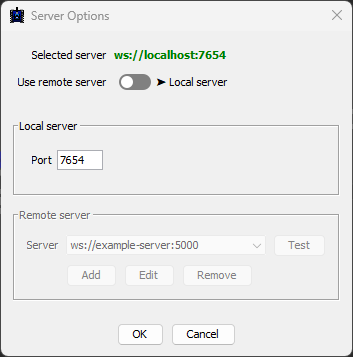
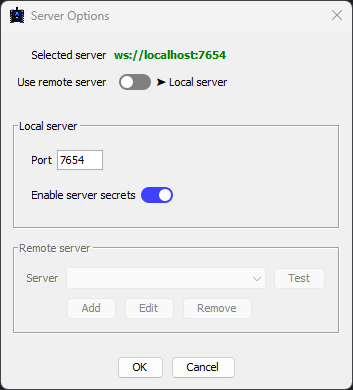
Document auto-recording and replay features in the GUI manual with updated images and details.

diff --git a/buildDocs/docs/articles/gui.md b/buildDocs/docs/articles/gui.md
@@ -2,179 +2,188 @@
 
 ## Introduction
 
-The **GUI** is a graphical user interface for Robocode Tank Royale that allows you to:
+The **GUI** is a graphical user interface for Robocode Tank Royale that provides essential functionality for:
 
-- Connect to a server running locally, or start up a new server that will run locally.
-- Startup battles with selected bots and define the rules to apply for the battle.
-- Boot up bots locally, or let remote bots join your battle.
-- View battles in the battle arena and control the visualization speed.
+- Managing server connections, including starting a local server or connecting to a remote one
+- Creating and configuring battles by selecting bots and defining game rules
+- Running bots locally or integrating with remote bots
+- Real-time battle visualization with speed control and monitoring capabilities
+- Recording and replaying battles for detailed analysis
 
 ## Start window
 
-When starting up the GUI, this window is the first thing you will see:
+When launching the GUI, you'll be greeted by the start window:
 
 ![Start window](../images/gui/start-window.png)
 
-Use the menu at the top, which contains some keyboard shortcuts for the main features. For example `Ctrl+B` for starting
-a new battle.
+The menu bar at the top provides convenient access to core features with keyboard shortcuts, such as `Ctrl+B` to start a
+new battle.
 
 ## Starting a battle
 
-The main feature of the GUI is starting a new battle and selecting the bots to participate in the battle.
+The primary function of the GUI is battle creation and bot selection:
 
 ![Start battle](../images/gui/start-battle.png)
 
-The window contains these four lists:
+The window is organized into four key lists:
 
-- Bot Directories (local)
-- Booted Bots (local)
-- Joined Bots (local/remote)
-- Selected Bots (battle participants)
+- Bot Directories (local) - Available bot types from configured directories
+- Booted Bots (local) - Currently bot instances running locally
+- Joined Bots (local/remote) - Bots connected to the server locally or remotely
+- Selected Bots (battle participants) - Bots chosen for the next battle
 
-Besides these lists, the window contains 'Select game type' at the top to select the [game type] for the battle.
-Note that you can adjust the rules for a specific game type by clicking the 'Setup Rules' button.
+At the top, you'll find the 'Select game type' dropdown to choose the [game type], along with a 'Setup Rules' button for
+customizing game parameters.
 
 ![Setup rules and game type](../images/gui/setup-rules-and-game-type.png)
 
-At the bottom of the window, the _bot info_ is displayed for the bot when selecting a bot within the 'Bot Directories'
-list:
+Next to the game type selection is the 'Recording' toggle for battle recording:
+
+![Auto-recording](../images/gui/auto-record.png)
+
+When enabled, battles are automatically recorded and saved to individual files in the `recordings` directory.
+
+The bottom panel displays detailed bot information when selecting entries from the 'Bot Directories' list:
 
 ![Bot Info](../images/gui/bot-info.png)
 
 ### Bot Directories
 
-The **Bot Directories** lists all the bots types found in the local (root) bot directories that you have added to
-the configuration. Each entry in the list contains the absolute file path to a bot type.
+The **Bot Directories** section lists all detected bot types from your configured local directories, showing absolute
+file paths to each bot.
 
 ![Bot Directories](../images/gui/bot-directories.png)
 
-When no bot directories have been set up already, a dialog will show up, telling you that you need to set up at least
-one bot directory root.
+If no directories are configured, you'll see a prompt to set up at least one bot directory root:
 
 ![No bot directory root](../images/gui/no-bot-directory-found.png)
 
-To begin with, you can download the zip files with the sample bots. Unzip those to some directory, which you then add to
-the configuration from the menu with the Config → Bot Root Directories:
+To get started, download and extract the sample bot packages, then add their directory through Config → Bot Root
+Directories:
 
 ![Bot Root Directories Config](../images/gui/bot-root-dir-config.png)
 
 ### Booted Bots
 
-The **Booted Bots** lists all bots that have been booted up from the GUI. The GUI has the [booter] built-in, which
-is used for booting up selected bots from the Bot Directories.
+The **Booted Bots** section shows bots launched through the GUI's built-in [booter]:
 
 ![Booted Bots](../images/gui/booted-bots.png)
 
-Note that it is possible to boot up multiple instances of
-the same bot type, so you can, for example, let 3 Corners bots battle each other.
+Multiple instances of the same bot type can be booted, enabling scenarios like multiple Corners bots battling each
+other.
 
-Each entry in the Booted Bots list contains the full file path for the bot type of the booted bot plus a process id
-(pid) within the parentheses after the file path.
-
-When pressing 'Boot', a boot process will start up running the individual bots selected from the Bot Directories. Note
-that the bots themselves are running in their own processes (and own pid) beside the boot process listed in the list of
-booted bots.
-
-When pressing 'Unboot' the boot process of the selected bot will be stopped, which is effectively stopping the bot as
-well.
+Each entry displays the bot's file path and process ID (pid). The 'Boot' button launches individual bot processes,
+while 'Unboot' terminates the selected bot's process.
 
 ### Joined Bots
 
-The **Joined Bots** lists all bots that have joined the server either locally or remotely, and hence are available for
-the battle. If you start a bot from the command line or within an IDE locally, it will also show up in the **Joined
-Bots** list.
+The **Joined Bots** section displays all bots connected to the server, whether local or remote, including those started
+via command line or IDE:
 
 ![Joined Bots](../images/gui/joined-bots.png)
 
-The IP address and port for the joined bot is written in the parentheses, which also makes it possible to differ between
-multiple instances of the same bot, e.g. if Corners have been booted multiple times.
+Each entry shows the bot's IP address and port, helping distinguish between multiple instances. File paths aren't shown
+since the server only tracks WebSocket connections and bot handshake information.
 
-Note that the file path of the bot is not available is the list of **Joined Bots**. The reason is that the server only
-listens for bots that join via the server´s WebSocket, and hence only knows the IP address and port, and the bot
-information provided via the _bot handshake_ sent by the bot itself.
-
-The booter (used by the GUI) does have this knowledge, _but only for bots that was started from the local file system_.
-Be aware that bots might not make use of the booter at all, but could be started some other way. E.g. you can write a
-Bot application running against the server's WebSocket with or without using the provided bot APIs, and just start it
-up from some process, or running within e.g. an application server locally or remotely.
+While the booter knows local bot file paths, bots can join through various means without using the booter, such as
+custom applications connecting via WebSocket.
 
 ### Selected Bots
 
-The **Selected Bots** lists the joined bots you are selecting to participate in the battle.
+The **Selected Bots** section lists your chosen bots for the upcoming battle:
 
 ![Selected Bots](../images/gui/selected-bots.png)
 
-Note that the 'Start Battle' button might be disabled if the number of selected bots for the battle does not meet the
-minimum requirements defined by the rules ([game type]), which is written in hover text for the 'Start Battle' button.
+The 'Start Battle' button activates once you meet the minimum participant requirements defined in the game
+rules ([game type]).
 
 ## Viewing the battle
 
-When the battle is started, the screen will shift to the battle view:
+When a battle begins, the view switches to the battle arena:
 
 ![Battle View](../images/gui/battle-view.png)
 
-The battle can be controlled using the control panel at the bottom:
+Use the control panel at the bottom to manage the battle:
 
 ![Control Panel](../images/gui/control-panel.png)
 
-With the control panel you can:
+Controls include:
 
-- pause/resume the battle
-- single-step a turn by clicking 'Next turn', while the game is paused
-- stop and restart the battle
-- set the TPS (Turns per second) with the slider, TPS field, or the default TPS button
+- Pause/Resume battle
+- Single-step through turns while paused
+- Stop/Restart battle
+- Adjust TPS (Turns per second) via slider, input field, or default button
 
 ### Viewing the bot console
 
-On the left side of the battle view you can see a side-panel containing buttons for each bot participating in the
-battle:
+The left side panel contains buttons for each participating bot:
 
 ![Side Panel](../images/gui/side-panel.png)
 
-When clicking on a 'bot button', the bot console window will open:
+Clicking a bot button opens its console window:
 
 ![Bot Console](../images/gui/bot-console.png)
 
-On the **Console** tab of the bot console writes out the standard output (stdout) and standard error (stderr) printed
-out from the bots standout
-output streams. Note that the standard output streams from the bot is being redirected by the Bot API when it is being
-booted from the [Booter].
+The **Console** tab shows stdout and stderr output from the bot. The [Booter] redirects these streams when launching
+bots.
 
-Data received from the bot is written out with a label in <font color=gray>gray</font> with the turn number, when the
-output was written out.
+Output includes:
 
-Messages sent to standard output (stdout) is written in <font color=white>white</font>, and messages sent to standard
-error (stderr) is written out in <font color=#FF5733>red</font>.
-
-Info messages from the game (GUI) is written out in <font color=#377B37>green</font>. Info messages is e.g. round
-number, when a new round has just started. But it could also be "events" written out with a starting left arrow (>)
-telling that the game has ended or was aborted.
+- <font color=gray>Gray</font> labels with turn numbers
+- <font color=white>White</font> standard output messages
+- <font color=#FF5733>Red</font> standard error messages
+- <font color=#377B37>Green</font> game info messages
 
 ### Viewing the bot properties
 
-The **Properties** tab of the bot console shows all the current bot properties for the current turn, which is useful
-to read the current states of the bot and useful debugging your bot.
+The **Properties** tab displays real-time bot state information for debugging:
 
 ![Bot Console](../images/gui/bot-properties.png)
 
 ### Viewing the bot events
 
-The **Events** tab of the bot console shows all events occurring for the bot, which used for, e.g., debugging your bot.
+The **Events** tab shows all bot events for debugging purposes:
 
 ![Bot Console](../images/gui/bot-events.png)
 
-Each event gets printed out on the turn (number) they were received by the GUI client. But your bot might receive it
-with a delay, depending on how busy the bot is due to CPU and RAM usage. But networking latency and threading issues
-could also play in (bots run over WebSockets).
+Events display their turn number, though bots may experience delays due to system load or network latency.
+
+## Recording
+
+The GUI features built-in battle recording capabilities:
+
+Enable auto-recording via the toggle in the New Battle dialog to automatically record each battle:
+
+![Recording](../images/gui/recording.png)
+
+Recordings save to separate files in the `recordings` directory, enabling detailed replay analysis of bot behavior.
+
+## Replaying
+
+Access recorded battles through Battle → Replay from File...:
+
+![Replay from File](../images/gui/replay-from-file.png)
+
+Select a recording file:
+
+![Select replay file](../images/gui/select-replay-file.png)
+
+Click Open to start playback:
+
+![Replaying](../images/gui/replay.png)
+
+The timeline shows battle progress and bot deaths (marked by skulls). Click anywhere on the timeline to jump to that
+turn.
+
+Replay controls match live battle controls for pause/resume, stepping, and stopping.
 
 ## Setup Rules
 
-Setup Rules makes it is possible to modify the rules for a specific [game type]:
+Customize rules for each [game type]:
 
 ![Setup Rules](../images/gui/setup-rules.png)
 
-Currently, these predefined game types exist: `classic`, `melee`, and `1v1`. But there is also a `custom` which you
-can use it for your own purpose to experiment with the settings as you please.
+Available game types include: `classic`, `melee`, `1v1`, and `custom` for experimentation.
 
 Rule settings:
 
@@ -190,53 +199,97 @@ Rule settings:
 
 ## Local Server Log
 
-When the GUI is used for starting a local server it is possible to view the server log from the menu. Note that viewing
-the log of a remote server is not supported.
+The GUI provides a built-in server log viewer when running a local server. This allows you to monitor server activity,
+debug connection issues, and track battle events in real-time. Note that log viewing is only available for local
+servers, not remote servers.
 
 ![Local Server Log](../images/gui/server-log.png)
 
 ## Server Options
 
-It is possible to configure and select which server to use when starting a battle. In the top of the Server Options
-dialog the URL of the current selected server is output.
+The Server Options dialog allows you to configure and select the server used for battles. At the top of the dialog, you
+can see the URL of the currently selected server.
 
 ### Local Server
 
-The default is to use a local server, which will automatically be started and running on localhost. It is possible to
-change the port number.
+By default, Robocode Tank Royale uses a local server that automatically starts on localhost. You can configure:
+
+- Port number for the server
+- Server authentication using secrets
+- Security settings to prevent unauthorized access
+
+When server secrets are enabled, all clients and bots must authenticate using the correct secret to join. Bots can
+provide the secret either through:
+
+- The Bot API
+- Environment variable `ROBOCODE_SERVER_SECRET`
 
 ![Local Server Options](../images/gui/server-options-local.png)
+
+#### Local Server Secrets
+
+The server secrets are located in the `server.properties` file, which is automatically created when starting the
+server or GUI for the first time. This file contains the authentication secrets required for bots and controllers to
+access the server.
+
+This is an example of a `server.properties` file containing the server secrets:
+
+```properties
+bots-secrets=/zWlsdEfhNX1YPggA9DJlw
+controller-secrets=Xcrw0ydtiscD7L7xAT/K4g
+...
+```
+
+You can change the server secrets by editing the `server.properties` file.
+
+The `bots-secrets` contains the secret for authenticating bots, while the `controller-secrets` contains the secret for
+authenticating GUI components and the battle recorder.
 
 ### Remote Server
 
 It is also possible to use a remote server. This server is expected to run externally, and hence will not be started
-automatically, when starting a battle. Also note that you need to specify the controller and bot secrets for the remote
-server. Otherwise, the GUI and bots will not be able to access the remote server.
+automatically when starting a battle. To connect to a remote server:
+
+1. Enter the server URL in WebSocket format (e.g. ws://hostname:port)
+2. Specify both the controller and bot secrets that are configured on the remote server
+3. Click Apply to save the settings
+
+Without the correct secrets configured, neither the GUI nor bots will be able to authenticate and connect to the remote
+server.
 
 ![Remote Server Options](../images/gui/server-options-remote.png)
 
 ## Debug Options
 
-The current **Debug Options** contains a single option for enabling _initial start position_ for a bot, meaning that if
-a
-bot has set the `initialPosition` field in the JSON config file or programmatically via the `BotInfo` class, then the
-bot will be allowed to use the specified starting position.
+The **Debug Options** dialog provides development and testing features. Currently it includes:
 
-Note that this is an exception to the rule, as bots are not normally allowed to set a starting position. But the
-exception here is for debugging purposes only.
+- **Initial Bot Position**: When enabled, allows bots to specify their starting position via either:
+    - The `initialPosition` field in their JSON config file
+    - Programmatically through the `BotInfo` class
+
+This option is intended for debugging purposes only, as bots are normally not permitted to choose their starting
+position.
 
 ## Sound Options
 
-The **Sound Options** let you enable and disable sounds, but also toggle the individual sound effect.
+The **Sound Options** dialog gives you complete control over the game audio:
+
+- Master sound toggle to enable/disable all audio
+- Individual toggles for each sound effect type
+- Volume controls for fine-tuning the audio experience
 
 ![Sound Options](../images/gui/sound-options.png)
 
 ## About box
 
-The about-box provides information about the version of the GUI and built in booter and server.
+The about-box provides important system information:
 
-In addition, the Java version and vendor is also provided, which is useful information when e.g. filing a
-new [new issue].
+- Robocode Tank Royale version number
+- Java runtime version and vendor details
+- Links to report [new issue]s on GitHub
+- Recognition of project [contributors]
+
+This information is particularly helpful when reporting bugs or compatibility issues.
 
 ![About box](../images/gui/about-box.png)
 
@@ -249,3 +302,5 @@ using the speed and turn rates from the last commands successfully sent to the s
 [booter]: booter.md
 
 [new issue]: https://github.com/robocode-dev/tank-royale/issues/new/choose "Create new issue"
+
+[contributors]: https://github.com/robocode-dev/tank-royale/graphs/contributors "Contributors"
